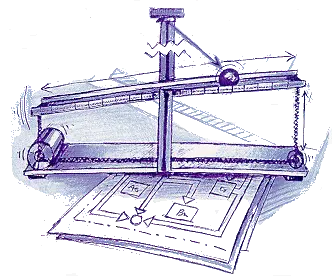
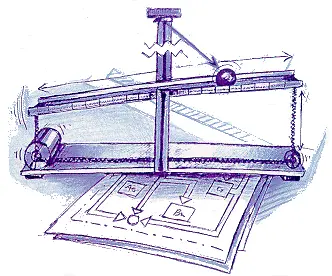
Corrección imagen bola y viga

Changed region(s): [[0.0301, 0.029, 0.994, 1.0]]

diff --git a/proyectos/proyectoscopy.html b/proyectos/proyectoscopy.html
@@ -1,0 +1,353 @@
+<!DOCTYPE html>
+<html lang="es-AR">
+
+<head>
+    <meta charset="utf-8" hreflang="es" />
+    <meta name="viewport" content="width=device-width, initial-scale=1, shrink-to-fit=no" />
+    <title>Proyectos | Luciano Cismondi</title>
+
+    <meta name="description" content="Una recopilación de los proyectos que he trabajado y estoy realizando." />
+    <meta name="author" content="Luciano Cismondi" />
+    <meta name="copyright" content="Copyright owner" />
+    <meta name="keywords"
+        content="luciano cismondi, cismondi, ingeniero argentino, tecnología, emprendedor, ingeniero, producto" />
+    <meta name="robots" content="follow" />
+    <link rel="canonical" href="https://lucianocismondi.com.ar" />
+
+    <!--
+        * Main HTML
+        * By lucianocismondi.com.ar. Powered by Boostrap 5.0
+        * Cismondi Holdings -->
+
+    <!-- Facebook Meta Tags -->
+    <meta property="og:url" content="https://lucianocismondi.com.ar/proyectos/proyectos.html">
+    <meta property="og:type" content="website">
+    <meta property="og:title" content="Luciano Cismondi | Product Engineer">
+    <meta property="og:description" content="Una recopilación de los proyectos que he trabajado y estoy realizando.">
+    <meta property="og:image" content="https://lucianocismondi.com.ar/assets/social-preview.webp">
+
+    <!-- Twitter Meta Tags -->
+    <meta name="twitter:card" content="summary_large_image">
+    <meta property="twitter:domain" content="https://lucianocismondi.com.ar">
+    <meta property="twitter:url" content="https://lucianocismondi.com.ar/proyectos/proyectos.html">
+    <meta name="twitter:title" content="Luciano Cismondi | Product Engineer">
+    <meta name="twitter:description" content="Una recopilación de los proyectos que he trabajado y estoy realizando">
+    <meta name="twitter:image" content="https://lucianocismondi.com.ar/assets/social-preview.webp">
+
+    <!-- Favicon-->
+    <link rel="icon" type="image/x-icon" href="assets/favicon.ico" />
+
+    <!-- Bootstrap icons-->
+    <link href="https://cdn.jsdelivr.net/npm/bootstrap-icons@1.11.3/font/bootstrap-icons.css" rel="stylesheet" />
+
+    <!-- Main CSS-->
+    <link href="../css/style.css" rel="stylesheet" />
+
+    <!-- Bootstrap CSS-->
+    <link href="../css/boostrap-styles.css" rel="stylesheet" />
+
+    <!-- Google Fonts -->
+    <link href="https://fonts.googleapis.com/css2?family=Inter:wght@100..900&display=swap" rel="stylesheet">
+
+    <!-- CSS Animations -->
+    <link rel="stylesheet" href="https://cdnjs.cloudflare.com/ajax/libs/animate.css/4.1.1/animate.min.css" />
+
+</head>
+
+<body id="home">
+    <!-- Responsive navbar-->
+    <nav></nav>
+
+    <!-- Hero -->
+    <header class="bg-black pt-5 pb-3">
+        <div class="container px-5">
+            <div class="row gx-4 justify-content-center">
+                <div class="col-md-10 col-lg-7">
+                    <div class="text-left mt-5">
+
+                        <h1 class="display-4 fw-bolder mb-2 animate__animated animate__fadeIn animate__slow text-white">
+                            Proyectos</h1>
+                        <p class="lead mt-3 animate__animated animate__fadeIn animate__slow text-white-50">Una
+                            recopilación de que hice y voy a hacer.</p>
+                        <div class="row justify-content-center mb-5">
+                            <div class="col-12 text-center">
+                                <img src="img/proyectos.webp" alt="proyectos" class="img-fluid rounded-3">
+                            </div>
+                        </div>
+                    </div>
+                </div>
+            </div>
+
+            <div class="container px-5 mt-4 align-items-center">
+                <div class="row gx-4 justify-content-center">
+                    <div class="col-md-10 col-lg-7 align-items-center">
+
+                        <h3 class="mb-2 me-4 text-light animate__animated animate__fadeIn animate__slow">Trabajando
+                            en...</h3>
+
+                    </div>
+                </div>
+
+                <div class="row gx-4 justify-content-center">
+                    <div class="col-md-10 col-lg-7 d-flex align-items-center">
+                        <!--
+                            <p class="animate__animated animate__fadeIn animate__slow"><a href="clic-guru/index.html" class="text-white"><i class="bi bi-arrow-up-right-circle-fill me-1"></i>ReadyBrand</a><span class="text-white-50"> — Pre created logo for fast companies.</span></p>-->
+
+                        <p class="animate__animated animate__fadeIn animate__slow"><a href="enclosure3D.html"
+                                class="text-white"><i class="bi bi-arrow-up-right-circle-fill me-1"></i>Enclosure
+                                3D</a><span class="text-white-50"> — Un control de ambiente para impresoras 3D</span>
+                        </p>
+
+                    </div>
+                </div>
+            </div>
+
+
+    </header>
+
+    <!-- Projects section-->
+    <section class="container py-3">
+
+        <div class="row grid">
+            <div class="col-sm-6 col-lg-4 mb-4 animate__animated animate__fadeIn animate__slower">
+                <div class="card bg-black border-dark work">
+                    <a href="airbit.html" class="text-white">
+                        <img class="card-img-top" src="img/airbit.webp">
+                        <div class="card-body">
+                            <p class="card-text text-light">airbit<small class="text-white-50"> | Abril 2023</small>
+                            </p>
+                        </div>
+                    </a>
+                </div>
+            </div>
+            <div class="col-sm-6 col-lg-4 mb-4 animate__animated animate__fadeIn animate__slower">
+                <div class="card bg-black border-dark work">
+                    <a href="psicoanalisis_fmart.html" class="text-white">
+                        <img class="card-img-top" src="img/fmart_psicoanalisis.webp">
+                        <div class="card-body">
+                            <p class="card-text text-light">Psicoanálisis fmart<small class="text-white-50"> | Septiembre 2022</small>
+                            </p>
+                        </div>
+                    </a>
+                </div>
+            </div>
+            <div class="col-sm-6 col-lg-4 mb-4 animate__animated animate__fadeIn animate__slower">
+                <div class="card bg-black border-dark work">
+                    <a href="fmart.html" class="text-white">
+                        <img class="card-img-top" src="img/fmart.webp">
+                        <div class="card-body">
+                            <p class="card-text text-light">fmart<small class="text-white-50"> | Diciembre 2021</small>
+                            </p>
+                        </div>
+                    </a>
+                </div>
+            </div>
+            <!--
+            <div class="col-sm-6 col-lg-4 mb-4 animate__animated animate__fadeIn animate__slower">
+                <a class="text-decoration-none" href="https://youtu.be/-08M7JpLpl4?si=nk5L41E76jX8UvLG" target="blank">
+                    <div class="card card-quote text-center p-3">
+                        <figure class="mb-0">
+                            <blockquote class="blockquote">
+                                <p>Si fuera fácil no sería divertido</p>
+                            </blockquote>
+                            <figcaption class="blockquote-footer mb-0 text-dark">
+                                <cite title="Source Title">SGB</cite>
+                            </figcaption>
+                        </figure>
+                    </div>
+                </a>
+            </div>-->
+            <div class="col-sm-6 col-lg-4 mb-4 animate__animated animate__fadeIn animate__slower">
+                <div class="card bg-black border-dark work">
+                    <a href="sillon_tech.html" class="text-white">
+                        <img class="card-img-top" src="img/sillon_tech.webp">
+                        <div class="card-body">
+                            <p class="card-text text-light">Sillón tech<small class="text-white-50"> | Noviembre 2020</small>
+                            </p>
+                        </div>
+                    </a>
+                </div>
+            </div>
+            <div class="col-sm-6 col-lg-4 mb-4 animate__animated animate__fadeIn animate__slower">
+                <div class="card bg-black border-dark work">
+                    <a href="erl_cargaelectronica.html" class="text-white">
+                        <img class="card-img-top" src="img/erl_cargaelectronica.webp">
+                        <div class="card-body">
+                            <p class="card-text text-light">Carga electrónica<small class="text-white-50"> | Noviembre 2018</small>
+                            </p>
+                        </div>
+                    </a>
+                </div>
+            </div>
+            <div class="col-sm-6 col-lg-4 mb-4 animate__animated animate__fadeIn animate__slower">
+                <div class="card bg-black border-dark work">
+                    <a href="/trabajos/frioen30segundos.html" class="text-white">
+                        <img class="card-img-top" src="/trabajos/img/Consumo_masivo.webp">
+                        <div class="card-body">
+                            <p class="card-text text-light">IA enfriado<small class="text-white-50"> | Enero 2018</small>
+                            </p>
+                        </div>
+                    </a>
+                </div>
+            </div>
+            <div class="col-sm-6 col-lg-4 mb-4 animate__animated animate__fadeIn animate__slower">
+                <div class="card bg-black border-dark work">
+                    <a href="/estudios/forceboard.html" class="text-white">
+                        <img class="card-img-top" src="/estudios/img/forceboard.webp">
+                        <div class="card-body">
+                            <p class="card-text text-light">Forceboard<small class="text-white-50"> | Marzo 2017</small>
+                            </p>
+                        </div>
+                    </a>
+                </div>
+            </div>
+            <div class="col-sm-6 col-lg-4 mb-4 animate__animated animate__fadeIn animate__slower">
+                <div class="card bg-black border-dark work">
+                    <a href="vubo.html" class="text-white">
+                        <img class="card-img-top" src="img/vubo_vumetro.webp">
+                        <div class="card-body">
+                            <p class="card-text text-light">Vubo<small class="text-white-50"> | Agosto 2016</small>
+                            </p>
+                        </div>
+                    </a>
+                </div>
+            </div>
+            <div class="col-sm-6 col-lg-4 mb-4 animate__animated animate__fadeIn animate__slower">
+                <div class="card bg-black border-dark work">
+                    <a href="/estudios/bolayviga.html" class="text-white">
+                        <img class="card-img-top" src="/estudios/img/bolayviga.webp">
+                        <div class="card-body">
+                            <p class="card-text text-light">Bola y viga<small class="text-white-50"> | Enero 2016</small>
+                            </p>
+                        </div>
+                    </a>
+                </div>
+            </div>
+            <div class="col-sm-6 col-lg-4 mb-4 animate__animated animate__fadeIn animate__slower">
+                <div class="card bg-black border-dark work">
+                    <a href="/estudios/permitividaddielectrica.html" class="text-white">
+                        <img class="card-img-top" src="/estudios/img/permitividaddielectrica.webp">
+                        <div class="card-body">
+                            <p class="card-text text-light">Permitividad eléctrica<small class="text-white-50"> | Diciembre 2015</small>
+                            </p>
+                        </div>
+                    </a>
+                </div>
+            </div>
+            <div class="col-sm-6 col-lg-4 mb-4 animate__animated animate__fadeIn animate__slower">
+                <div class="card bg-black border-dark work">
+                    <a href="/estudios/tecladocapacitivo.html" class="text-white">
+                        <img class="card-img-top" src="/estudios/img/tecladocapacitivo.webp">
+                        <div class="card-body">
+                            <p class="card-text text-light">Teclado capacitivo<small class="text-white-50"> | Marzo 2015</small>
+                            </p>
+                        </div>
+                    </a>
+                </div>
+            </div>
+            <div class="col-sm-6 col-lg-4 mb-4 animate__animated animate__fadeIn animate__slower">
+                <div class="card bg-black border-dark work">
+                    <a href="/estudios/estabilizadordevuelo.html" class="text-white">
+                        <img class="card-img-top" src="/estudios/img/estabilizadorvuelo.webp">
+                        <div class="card-body">
+                            <p class="card-text text-light">Estabilizador de vuelo<small class="text-white-50"> | Abril 2014</small>
+                            </p>
+                        </div>
+                    </a>
+                </div>
+            </div>
+            <div class="col-sm-6 col-lg-4 mb-4 animate__animated animate__fadeIn animate__slower">
+                <div class="card bg-black border-dark work">
+                    <a href="/estudios/rpic.html" class="text-white">
+                        <img class="card-img-top" src="/estudios/img/rpic_slim.webp">
+                        <div class="card-body">
+                            <p class="card-text text-light">RPIC<small class="text-white-50"> | Octubre 2013</small>
+                            </p>
+                        </div>
+                    </a>
+                </div>
+            </div>
+            <div class="col-sm-6 col-lg-4 mb-4 animate__animated animate__fadeIn animate__slower">
+                <div class="card bg-black border-dark work">
+                    <a href="/estudios/lixed.html" class="text-white">
+                        <img class="card-img-top" src="/estudios/img/lixed.webp">
+                        <div class="card-body">
+                            <p class="card-text text-light">Medidor de nivel<small class="text-white-50"> | Diciembre 2012</small>
+                            </p>
+                        </div>
+                    </a>
+                </div>
+            </div>
+            <div class="col-sm-6 col-lg-4 mb-4 animate__animated animate__fadeIn animate__slower">
+                <div class="card bg-black border-dark work">
+                    <a href="/estudios/blcd.html" class="text-white">
+                        <img class="card-img-top" src="/estudios/img/bldc.webp">
+                        <div class="card-body">
+                            <p class="card-text text-light">Control BLDC<small class="text-white-50"> | Diciembre 2011</small>
+                            </p>
+                        </div>
+                    </a>
+                </div>
+            </div>
+            <div class="col-sm-6 col-lg-4 mb-4 animate__animated animate__fadeIn animate__slower">
+                <div class="card bg-black border-dark work">
+                    <a href="/estudios/robotautonomo.html" class="text-white">
+                        <img class="card-img-top" src="/estudios/img/robotautonomo_slim.webp">
+                        <div class="card-body">
+                            <p class="card-text text-light">Robot autónomo<small class="text-white-50"> | Diciembre 2009</small>
+                            </p>
+                        </div>
+                    </a>
+                </div>
+            </div>
+            <div class="col-sm-6 col-lg-4 mb-4 animate__animated animate__fadeIn animate__slower">
+                <div class="card bg-black border-dark work">
+                    <a href="/estudios/brazorobotico.html" class="text-white">
+                        <img class="card-img-top" src="/estudios/img/brazorobotico.webp">
+                        <div class="card-body">
+                            <p class="card-text text-light">brazorobotico<small class="text-white-50"> | Diciembre 2007</small>
+                            </p>
+                        </div>
+                    </a>
+                </div>
+            </div>
+
+
+    </section>
+
+    <!-- Contact section-->
+    <div class="container">
+        <footer></footer>
+    </div>
+
+
+    <!-- Core JS (with Popper)-->
+    <script src="/js/scripts.js"></script>
+
+    <!-- Bootstrap core JS-->
+    <script src="https://cdn.jsdelivr.net/npm/@popperjs/core@2.11.8/dist/umd/popper.min.js"
+        integrity="sha384-I7E8VVD/ismYTF4hNIPjVp/Zjvgyol6VFvRkX/vR+Vc4jQkC+hVqc2pM8ODewa9r"
+        crossorigin="anonymous"></script>
+
+    <script src="https://cdn.jsdelivr.net/npm/bootstrap@5.3.2/dist/js/bootstrap.min.js"
+        integrity="sha384-BBtl+eGJRgqQAUMxJ7pMwbEyER4l1g+O15P+16Ep7Q9Q+zqX6gSbd85u4mG4QzX+"
+        crossorigin="anonymous"></script>
+
+    <!-- Librería Masonry -->
+    <script src="https://cdnjs.cloudflare.com/ajax/libs/masonry/4.2.2/masonry.pkgd.min.js"></script>
+
+  <!-- Inicialización de Masonry -->
+  <script>
+    document.addEventListener('DOMContentLoaded', function () {
+      var grid = document.querySelector('.grid');
+      var msnry = new Masonry(grid, {
+        itemSelector: '.grid-item',
+        columnWidth: '.grid-item',  // Esto asegura que las columnas se ajusten al tamaño del item
+        percentPosition: true  // Esto permite el uso de porcentajes en el CSS
+      });
+    });
+  </script>
+
+</body>
+
+</html>

diff --git a/css/style.css b/css/style.css
@@ -340,3 +340,20 @@ label.text-white::after {
 .form-control:focus, .form-select:focus {
     box-shadow: 0 0 0 .25rem rgb(202, 202, 202) !important;
 }
+
+
+/* Masonry */
+.grid {
+    display: flex;
+    flex-wrap: wrap;
+    margin-left: -10px; /* Ajusta esto según tu diseño */
+  }
+  
+  .grid-item {
+    width: 200px; /* Ajusta esto según tu diseño */
+    margin-left: 10px; /* Ajusta esto según tu diseño */
+    margin-bottom: 10px; /* Ajusta esto según tu diseño */
+    background: #ddd; /* Solo para visualización */
+    border: 1px solid #ccc; /* Solo para visualización */
+    box-sizing: border-box;
+  }
